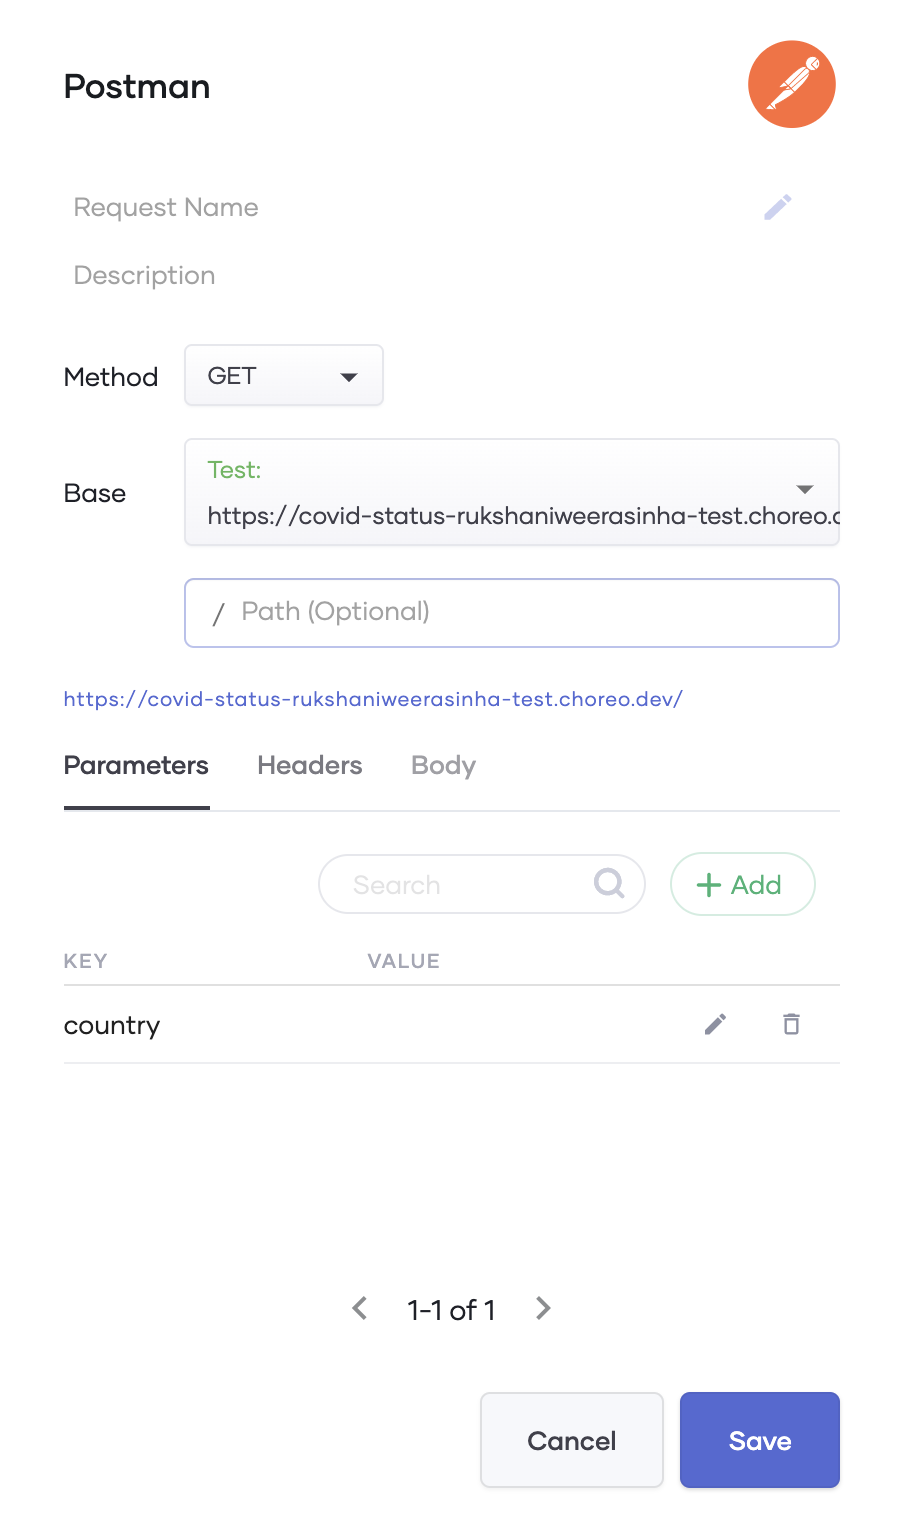
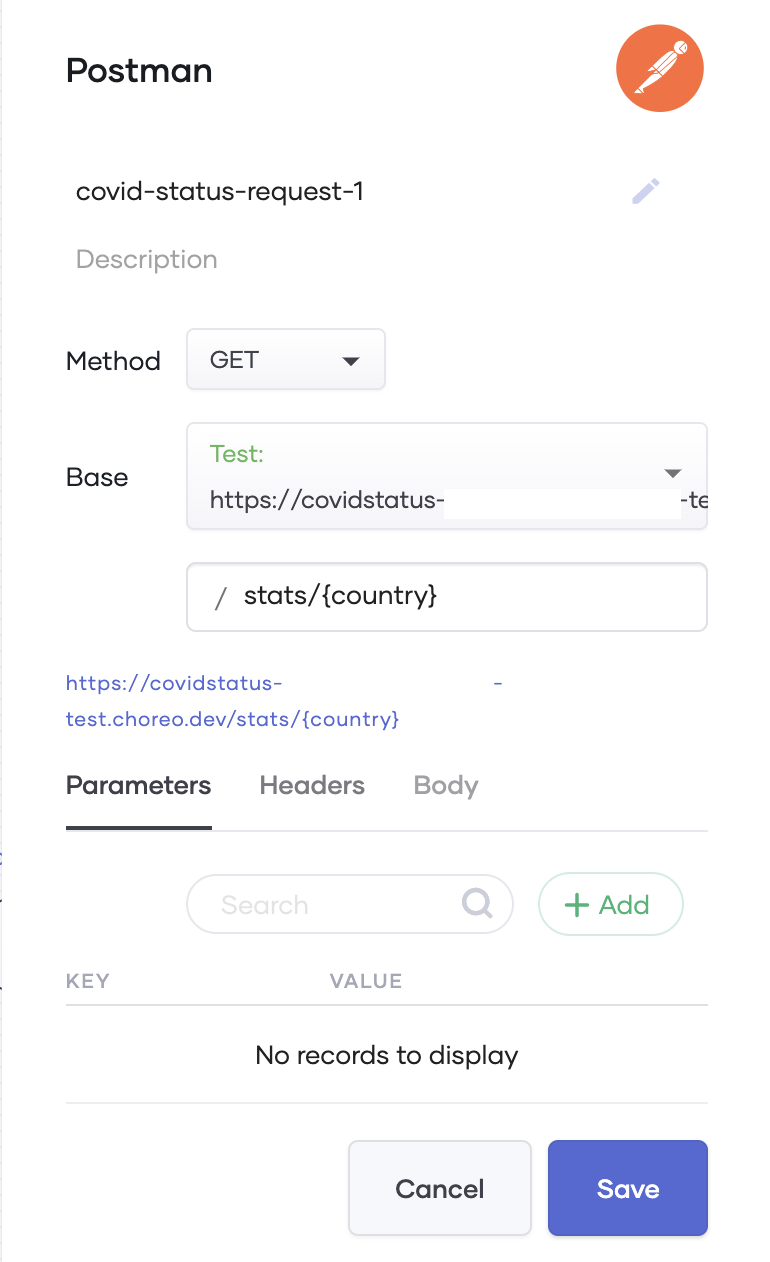
Correct documentation on integrating via Postman based on review comments

diff --git a/en/docs/references/test-your-service-via-postman.md b/en/docs/references/test-your-service-via-postman.md
@@ -1,0 +1,143 @@
+# Test Your Service via Postman
+
+The Postman Editor allows you to integrate with your Postman account to easily test your services.
+
+## Prerequisites
+
+To use the Postman Editor:
+
+- Make sure you have logged into the Choreo console and created a service. For instructions to create a service, see [Create Your First Service](../services/create-your-first-service.md).
+
+    !!! tip
+        This guide uses the service created in the **World Bank Data to COVID-19 Statistics** sample as an example.
+        
+- Have an active Postman account.
+
+## Step 1: Generate Postman API key
+
+To generate the Postman API key so that you can connect your Postman account to Choreo, follow this procedure:
+
+1. Sign in to your Postman account.
+
+2. Go to your profile, and click **Account Settings**. Then click **Postman API Keys**
+
+3. Click **Generate API Key**.
+
+4. In the **Generate an API key** dialog box, enter a key name (e.g., `choreo`). Then click **Generate API Key**.
+
+5. Copy the key that is generated.
+
+## Step 2: Add Postman API key to your service
+
+In this step, you will be connecting your service to your Postman account by adding the Postman API key that you generated to your service.
+
+1. Sign in to the Choreo Console at [https://console.choreo.dev/](https://console.choreo.dev/).
+
+2. Go to the **Services** card and click **Explore**. Then click on the service you want to test (in this example, **World Bank Data to COVID-19 Statistics**).
+
+3. Once the service opens, click on the **Test** icon in the left pane. Then click on the **Postman** icon.
+
+    ![Access Postman test view](../assets/img/postman/access-postman-test-view.png){.cInlineImage-full}
+    
+    As shown in the image above, the **Postman** panel opens to the right of the low-code diagram with instructions to integrate Postman. You have already completed the first two steps given there.
+
+4. Click on the link provided in the third step in the **Postman** panel.
+
+5. In the **API Key** field, enter the API key that you generated in the Postman application.
+
+    Once you enter it, the following message appears below the field.
+    
+    ```text
+    Your API key was validated by Choreo
+    ```
+   
+6. Click **Save**. 
+
+You can now create a new workspace to link to your service or select an existing workspace in your Postman account.
+
+## Step 3: Link a workspace to your service
+
+In this step, let's connect a workspace to your service. You can use workspaces in Postman to manage your Postman components for different tasks. In this example, you can create a workspace to have the collections you create for testing the `World Bank Data to COVID-19 Statistics` service. For more information about workspaces, see [Postman Documentation - Using and managing workspaces](https://learning.postman.com/docs/collaborating-in-postman/using-workspaces/managing-workspaces/).
+
+To create a workspace for your service, follow this procedure:
+
+1. In the **Postman** panel that you opened, expand the **Select or create a workspace** field.
+
+    ![Postman panel](../assets/img/postman/postman-right-panel.png){.cInlineImage-half}
+    
+    As shown above, the drop-down list displays the existing workspaces in your Postman account. You can link your service to an existing workspace or create a new one. In this example, let's create a new workspace.
+    
+2. Click **+ Create New**.
+
+3. Enter a name and a description for the new workspace. For this example, let's enter them as follows:
+
+    | **Field**       | **Value**                       |
+    |-----------------|---------------------------------|
+    | **Name**        | `covid-Status`                  |
+    | **Description** | `Test the covid-Status service` |
+    
+4. Click **Create & Link**.
+
+Now you have linked your service to the new workspace named `covid-Status`.
+
+## Step 4: Create a collection
+
+In this step, you will be creating a collection. The collection runner in Postman runs multiple requests in a specified sequence and logs the results. Each collection represents one request. For more information about collections, see [Postman Documentation - Collection Runner](https://learning.postman.com/docs/running-collections/intro-to-collection-runs/)
+
+!!! tip
+    If you linked an existing workspace to the service and that workspace has existing collections, you can skip this step.
+    
+To create a collection, follow this procedure:
+
+1. Under **Collections** in the **Postman** panel, click **+ Add**.
+
+2. Enter a name and a description. For this example, let's enter them as follows:
+
+    | **Field**       | **Value**                             |
+    |-----------------|---------------------------------------|
+    | **Name**        | `invoke-covid-status service`         |
+    | **Description** | `Collection for covid-status service` |
+    
+3. Click **Create**.
+
+As a result, the collection is created and displayed under **Collections** in the **Postman** panel.
+
+## Step 5: Create a request
+
+To create a request, follow this procedure:
+
+1. In the **Postman** panel, click on the **>** icon of the collection that you created. This opens the **Requests** section.
+
+2. Click **+ Add**.
+
+3. Enter a request name (e.g., `covid-status-request-1`)
+
+4. Select the required HTTP method. You can also add the query parameters, headers, and the request body as required.
+
+    In this example, you can select **GET** as the HTTP method, and add `stats/{country}` as the path.
+    
+    ![Postman request](../assets/img/postman/postman-request.png){.cInlineImage-half}
+    
+5. Click **Save**.
+
+## Step 6: Send a request from your Postman account
+
+To test your service, send a request from your Postman account by following this procedure:
+
+1. Sign in to your Postman account and check your workspaces. The workspace you created via Choreo will be available as shown below.
+
+    ![View workspace in Postman](../assets/img/postman/workspace-in-postman.png){.cInlineImage-half}
+
+2. Click on the workspace. You can view the collection and the request as follows.
+
+    ![Collection and request](../assets/img/postman/collection-and-request.png){.cInlineImage-full}
+    
+3. In the request path displayed, replace `{country}` with `USA` as shown below:
+
+    ![Update request path](../assets/img/postman/update-request-path.png){.cInlineImage-full}
+    
+4. Click **Send**.
+
+    The response is logged as shown below.
+
+    ![Response](../assets/img/postman/response.png){.cInlineImage-full}
